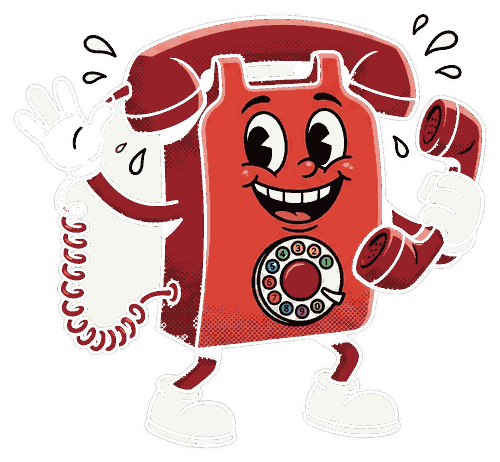
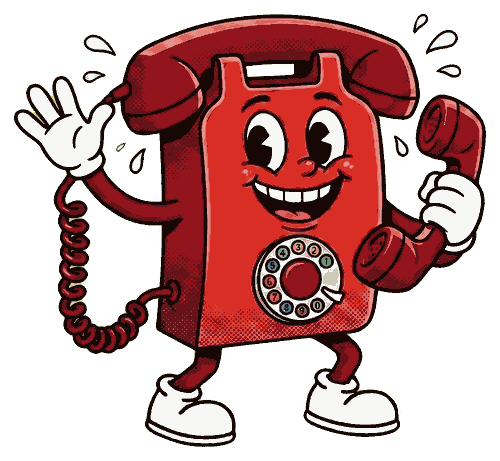
Fix rotary phone transparency, remove Who We Serve section, fix nav-open layout shift, small copy fix

Changed region(s): [[0.03, 0.0304, 0.99, 0.9718], [0.15, 0.0607, 0.24, 0.1215], [0.81, 0.0304, 0.87, 0.0911]]

diff --git a/index.html b/index.html
@@ -33,7 +33,6 @@
     <nav class="overlay-nav">
       <a href="/#approach">Approach</a>
       <a href="/#services">Services</a>
-      <a href="/#who">Who we serve</a>
       <a href="/#contact">Get in touch</a>
     </nav>
   </div>
@@ -44,7 +43,7 @@
   <section class="hero">
     <div class="wrap hero-inner">
       <h1><em>Performance marketing</em> for brands<br>that care about <em>performance</em>.</h1>
-      <p class="hero-sub">We're a team of marketing nerds and data junkies who help brands win. We'll manage your campaigns, own your SEO, and build the data systems that power your growth engine. Don't believe us? We'd be happy to prove it.</p>
+      <p class="hero-sub">We're a team of marketing nerds and data junkies who help brands win. We'll manage your campaigns, own your SEO, and build the data systems that power your growth engine. Don't believe us? We're happy to prove it.</p>
       <div class="hero-actions">
         <a href="/#contact" class="btn btn-primary">Let's chat</a>
       </div>
@@ -114,27 +113,6 @@
     </div>
   </section>
 
-  <section class="who section-dark" id="who">
-    <div class="wrap who-inner">
-      <p class="stitch-label">Who we serve</p>
-      <h2>Built for home services businesses.</h2>
-      <p class="lede">Plumbing, roofing, HVAC, electrical, landscaping, and other home services businesses where the work happens in the field, not behind a desk.</p>
-      <div class="tag-row">
-        <span class="tag">Plumbing</span>
-        <span class="tag">Roofing</span>
-        <span class="tag">HVAC</span>
-        <span class="tag">Electrical</span>
-        <span class="tag">Landscaping</span>
-        <span class="tag">General Contracting</span>
-        <span class="tag">Home Services</span>
-        <span class="tag">Garage Door Repair</span>
-        <span class="tag">Flooring</span>
-        <span class="tag">Construction</span>
-        <span class="tag">Other</span>
-      </div>
-    </div>
-  </section>
-
   <section class="cta">
     <div class="wrap cta-inner">
       <div class="cta-text">
@@ -157,7 +135,7 @@
 
   <section class="contact-form section-dark" id="contact">
     <div class="wrap contact-form-inner">
-      <img src="rotary-phone.png" alt="" class="contact-icon" width="500" height="462">
+      <img src="rotary-phone.png" alt="" class="contact-icon" width="500" height="461">
       <h2>Contact us.</h2>
       <p class="lede">Fill out this form, and we'll hit your line.</p>
 

diff --git a/style.css b/style.css
@@ -189,11 +189,6 @@ a { color: inherit; text-decoration: none; }
 .section-dark .step p { color: var(--ice-muted); }
 .section-dark .step-list li { color: var(--ice); }
 .section-dark .step-list li::before { background: var(--ice); }
-.section-dark .tag {
-  background: rgba(255, 255, 255, 0.08);
-  border-color: rgba(255, 255, 255, 0.25);
-  color: var(--ice);
-}
 .section-dark .btn-primary { background: var(--ice); color: var(--navy); }
 .section-dark .btn-primary:hover { background: var(--white); }
 .section-dark .btn-ghost { border-color: rgba(255, 255, 255, 0.4); color: var(--ice); }
@@ -319,22 +314,6 @@ a { color: inherit; text-decoration: none; }
 .service-card p { font-size: 0.92rem; margin-bottom: 0; color: var(--slate); }
 
 /* Who section */
-.who { padding: 100px 0; }
-.tag-row {
-  display: flex;
-  flex-wrap: wrap;
-  gap: 10px;
-  margin-top: 28px;
-}
-.tag {
-  padding: 8px 16px;
-  border-radius: 999px;
-  background: var(--white);
-  border: 1px solid var(--border-light);
-  font-size: 0.88rem;
-  font-weight: 500;
-  color: var(--slate);
-}
 
 /* CTA */
 .cta { padding: 110px 0; }

diff --git a/script.js b/script.js
@@ -7,10 +7,12 @@ document.addEventListener('DOMContentLoaded', () => {
   if (!toggle || !overlay) return;
 
   const openOverlay = () => {
+    const scrollbarWidth = window.innerWidth - document.documentElement.clientWidth;
     overlay.classList.add('open');
     if (scrim) scrim.classList.add('open');
     toggle.setAttribute('aria-expanded', 'true');
     document.body.style.overflow = 'hidden';
+    if (scrollbarWidth > 0) document.body.style.paddingRight = scrollbarWidth + 'px';
   };
 
   const closeOverlay = () => {
@@ -18,6 +20,7 @@ document.addEventListener('DOMContentLoaded', () => {
     if (scrim) scrim.classList.remove('open');
     toggle.setAttribute('aria-expanded', 'false');
     document.body.style.overflow = '';
+    document.body.style.paddingRight = '';
   };
 
   toggle.addEventListener('click', () => {
